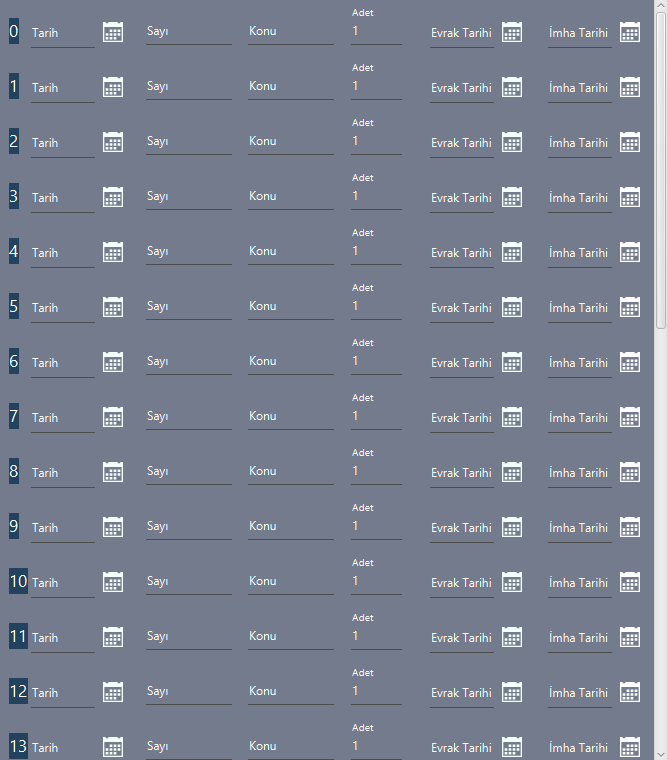
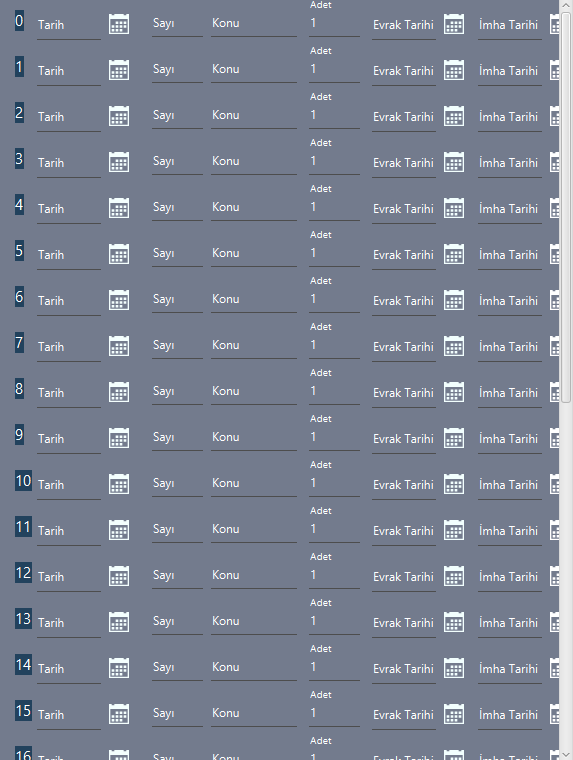
problem have been npt solved

diff --git a/src/main/java/org/kumsal/ficomSoft/printScreen.java b/src/main/java/org/kumsal/ficomSoft/printScreen.java
@@ -50,7 +50,7 @@ public class printScreen {
                 if (pageIndex != 0) {
                     return NO_SUCH_PAGE;
                 }
-                graphics.drawImage(image, 0, 0, 550, image.getHeight(), null);
+                graphics.drawImage(image, 0, 0, 500, image.getHeight(), null);
                 return PAGE_EXISTS;
             }
         });
